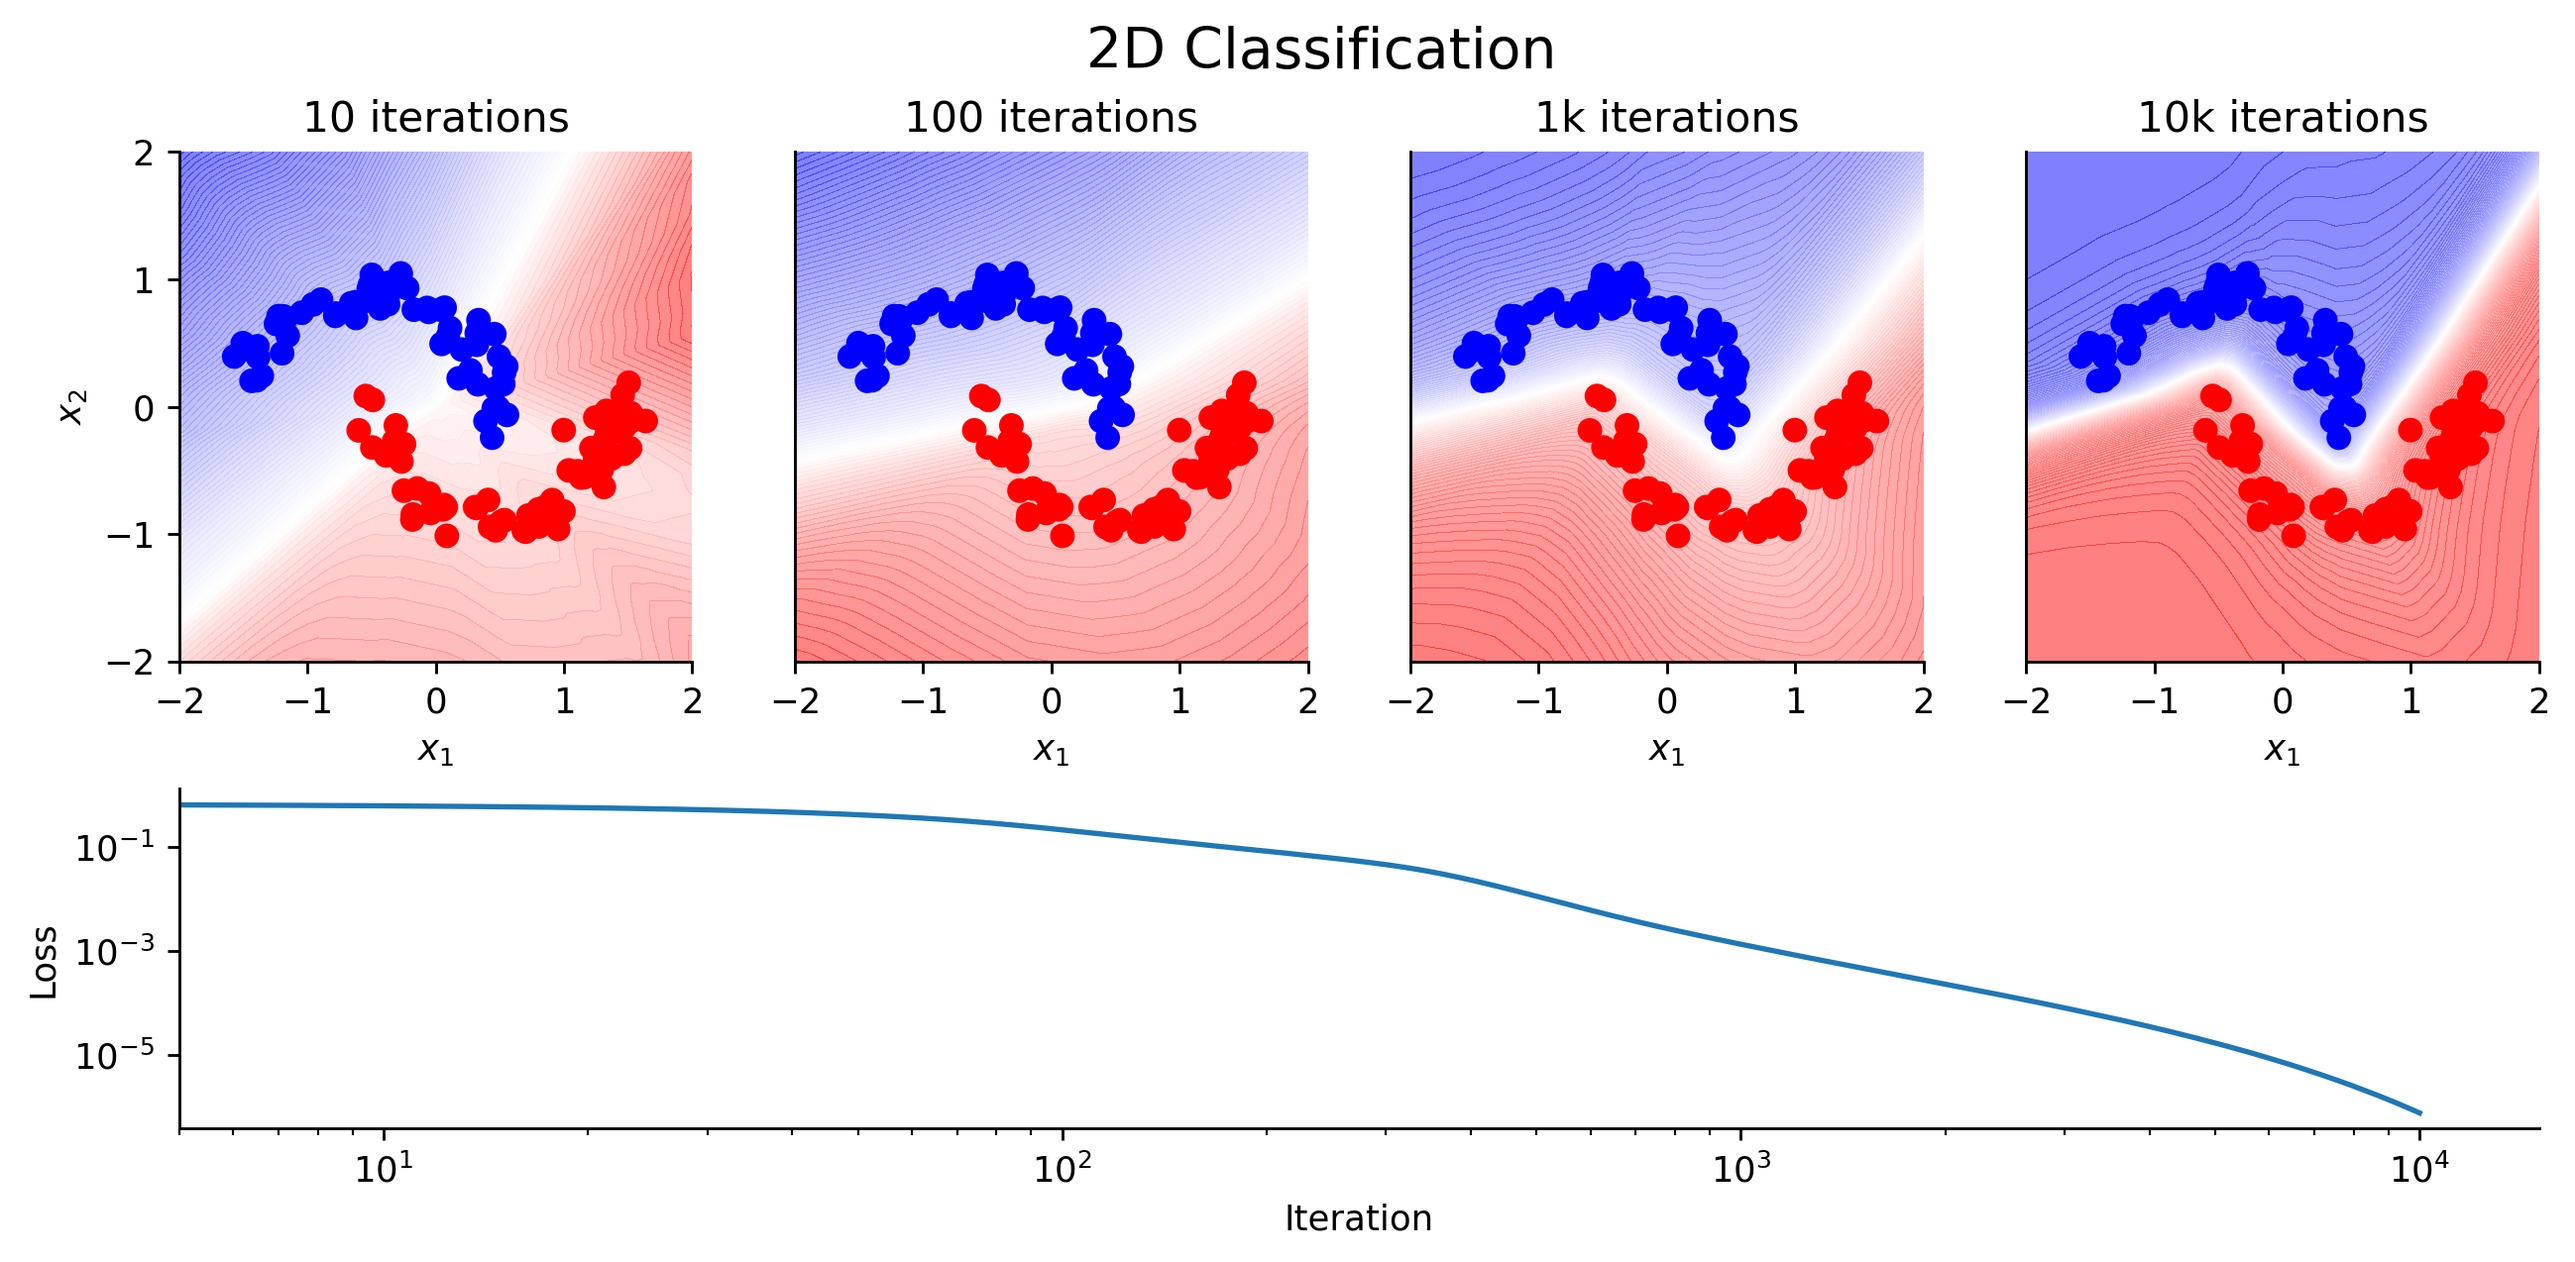
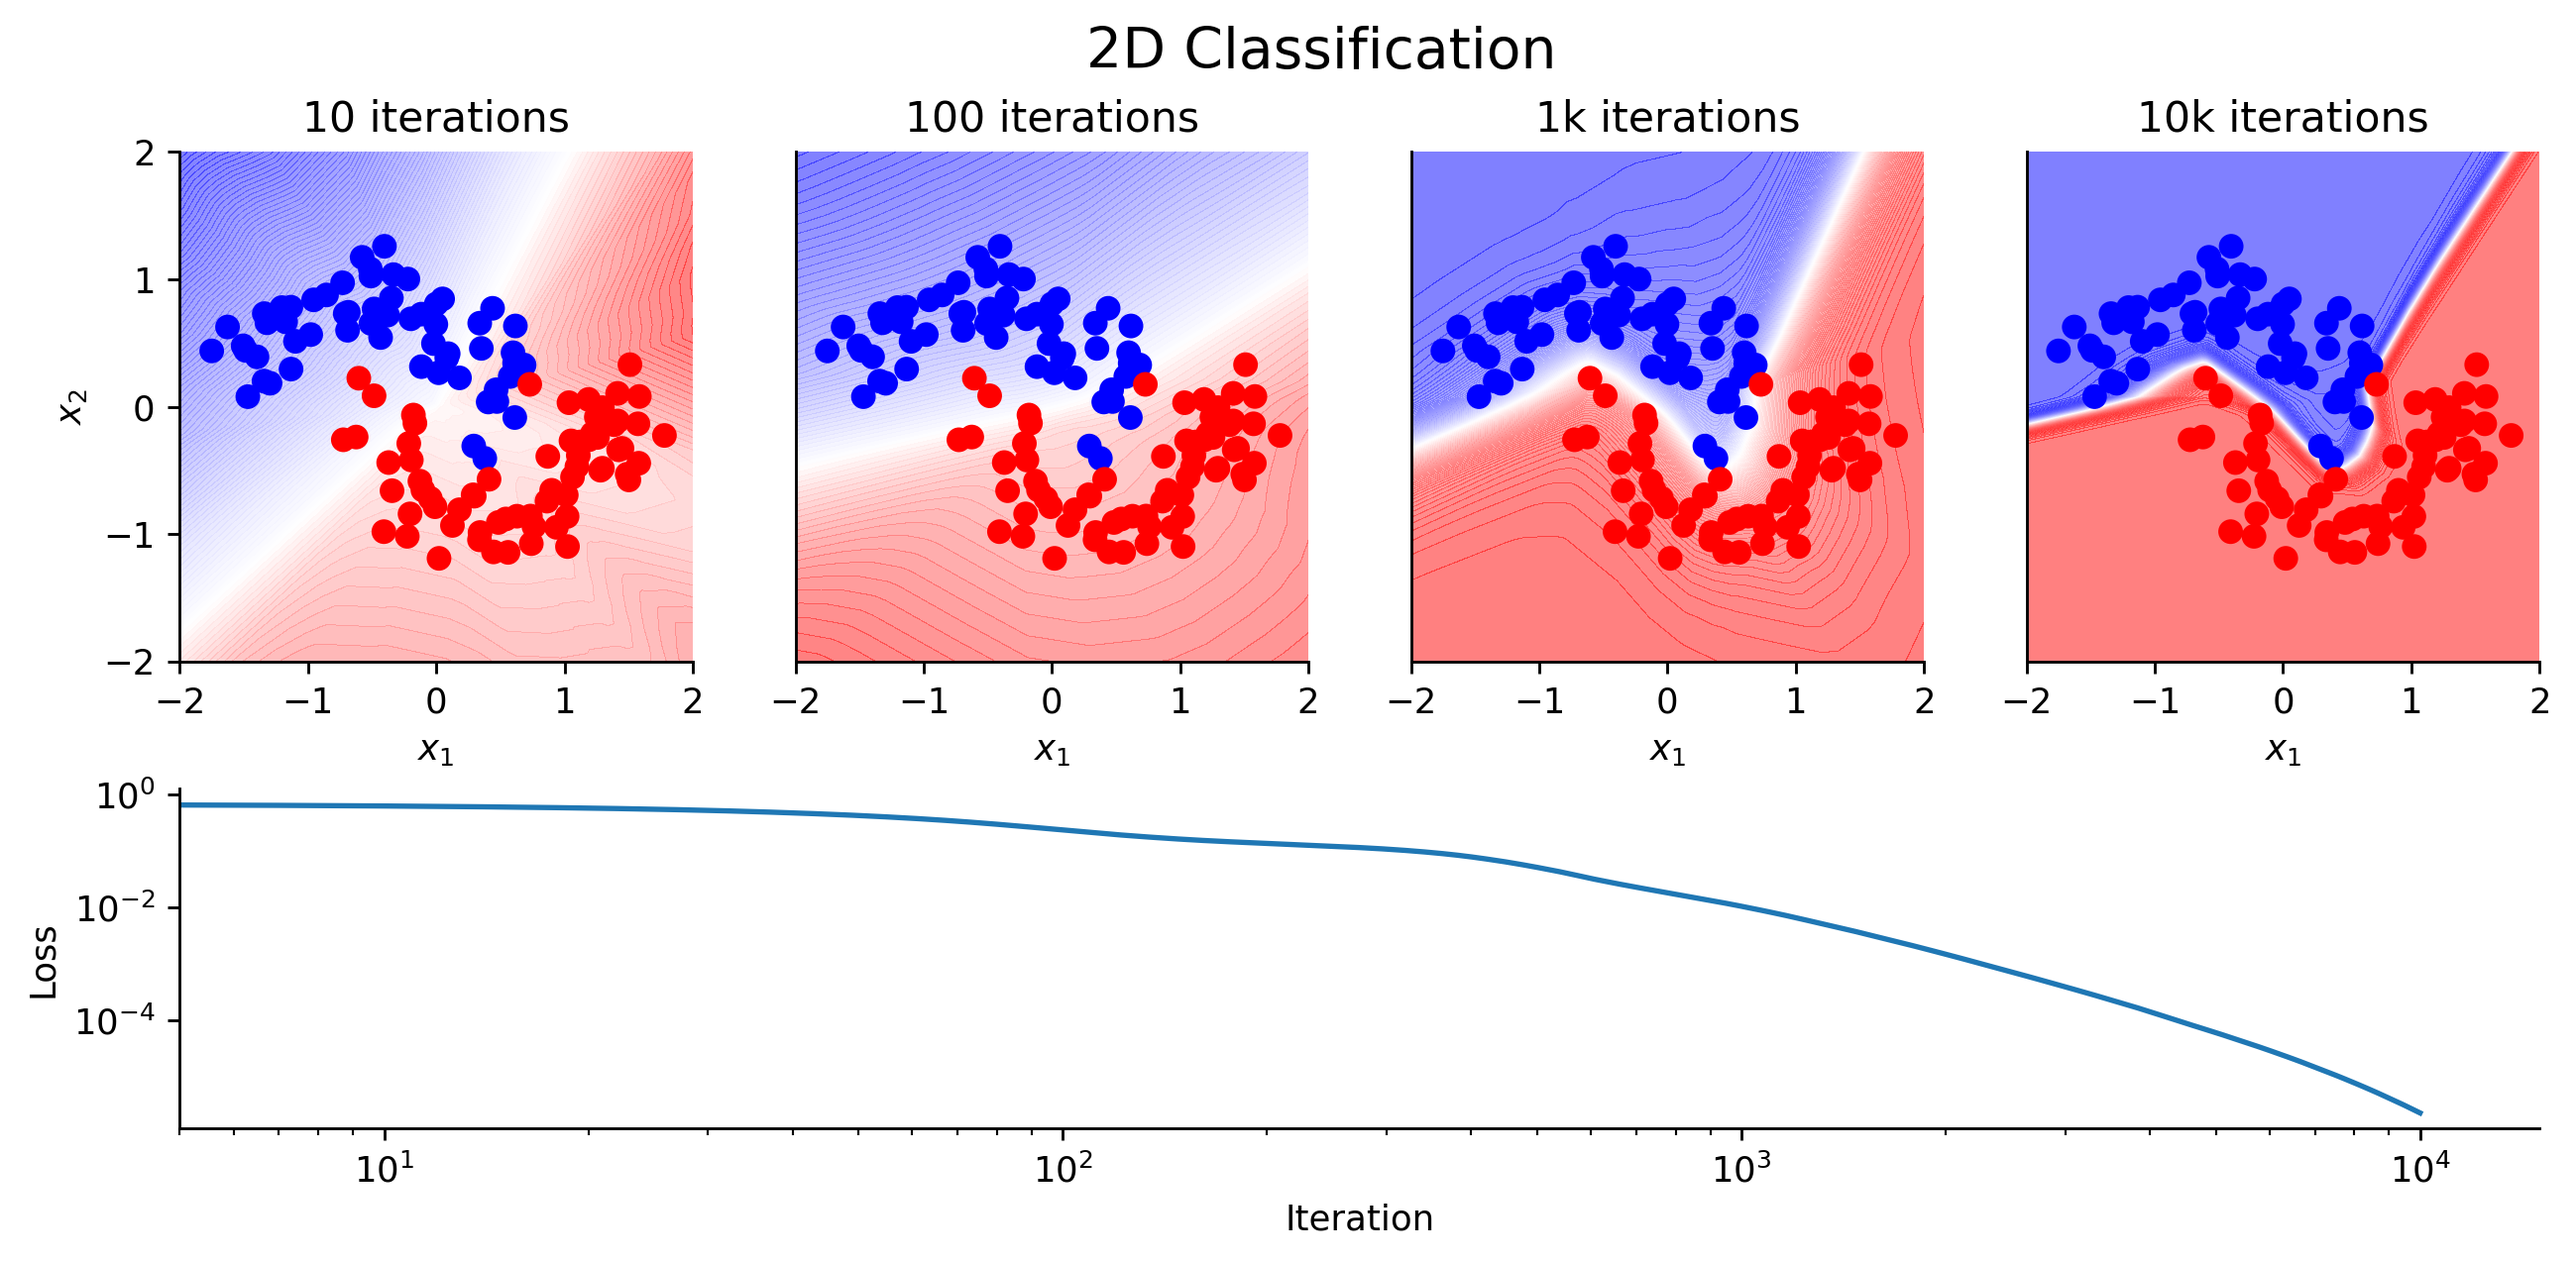
regression example

diff --git a/examples/regression_1d.py b/examples/regression_1d.py
@@ -1,0 +1,107 @@
+"""
+A simple 1D regression example. Fit a non linear MLP model using gradient
+based optimization.
+"""
+
+import jax.nn as jnn
+import jax.numpy as jnp
+import jax.random as jrn
+import matplotlib.pyplot as plt
+import seaborn as sns
+from jaxtyping import PRNGKeyArray
+from tqdm import trange
+from utils import get_plot_path
+
+import seli
+
+x_min, x_max = -5.0, 5.0
+
+
+# the true underlying function is a non linear function of x
+def true_fn(x: jnp.ndarray) -> jnp.ndarray:
+    return jnp.sin(1.5 * x) + 0.1 * x**2
+
+
+# the standard deviation of the observation noise is a function of x
+def stddev_fn(x: jnp.ndarray) -> jnp.ndarray:
+    return 0.2 + 0.05 * jnp.abs(x)
+
+
+# generate data from the true function with observation noise
+def generate_data(key: PRNGKeyArray, n: int) -> tuple[jnp.ndarray, jnp.ndarray]:
+    key_x, key_y = jrn.split(key)
+    x = jrn.uniform(key_x, (n,), minval=x_min, maxval=x_max)
+    y = true_fn(x)
+    eps = jrn.normal(key_y, (n,)) * stddev_fn(x)
+    return x, y + eps
+
+
+# generate a finite dataset of points
+x_data, y_data = generate_data(jrn.PRNGKey(0), 64)
+
+
+# define a non linear MLP model
+class MLP(seli.Module):
+    def __init__(self, dim: int = 16):
+        self.layers = [
+            seli.net.Affine(dim),
+            jnn.elu,
+            seli.net.Affine(dim),
+            jnn.elu,
+            seli.net.Affine(1),
+        ]
+
+    def __call__(self, x: jnp.ndarray) -> jnp.ndarray:
+        x = x[:, None]
+
+        for layer in self.layers:
+            x = layer(x)
+
+        return x[:, 0]
+
+
+model = MLP().set_rngs(42)
+opt = seli.opt.Adam(1e-2)
+
+# train with mean squared error loss, which fits the Gaussian noise model
+loss_fn = seli.opt.MeanSquaredError()
+
+for _ in trange(1000, desc="Training"):
+    opt, model, loss = opt.minimize(loss_fn, model, y_data, x_data)
+
+# make predictions on a fine grid of points
+x_lin = jnp.linspace(x_min, x_max, 128)
+x_lin_err = jnp.linspace(x_min, x_max, 128)
+
+y_pred = model(x_lin)
+
+fig, ax = plt.subplots(1, 1, figsize=(6, 6))
+
+# plot the data
+ax.scatter(x_data, y_data, label="data", s=10, color="tab:blue")
+ax.plot(x_lin, true_fn(x_lin), label="true", color="tab:blue", alpha=0.8)
+ax.fill_between(
+    x_lin_err,
+    true_fn(x_lin_err) + stddev_fn(x_lin_err) * 1.645,
+    true_fn(x_lin_err) - stddev_fn(x_lin_err) * 1.645,
+    alpha=0.1,
+    color="tab:blue",
+    label="90% CI",
+)
+
+# plot the model predictions
+ax.plot(x_lin, y_pred, label="model", color="tab:orange")
+
+ax.set_xlim(x_min, x_max)
+ax.legend(frameon=False)
+ax.set_xlabel("x")
+ax.set_ylabel("y")
+ax.set_title("1D regression")
+sns.despine()
+
+# save the final plot
+fig.savefig(
+    get_plot_path("regression_1d.png"),
+    dpi=256,
+    bbox_inches="tight",
+)

diff --git a/src/seli/opt/_loss.py b/src/seli/opt/_loss.py
@@ -42,8 +42,6 @@ class MeanSquaredError(Loss, name="opt.MeanSquaredError"):
         **model_kwargs,
     ) -> Float[Array, ""]:
         y_pred = model(*model_args, **model_kwargs)
-        y_pred = y_pred.squeeze()
-        print((y_pred - y_true).shape)
         return jnp.mean(jnp.square(y_pred - y_true))
 
 
@@ -60,8 +58,6 @@ class MeanAbsoluteError(Loss, name="opt.MeanAbsoluteError"):
         **model_kwargs,
     ) -> Float[Array, ""]:
         y_pred = model(*model_args, **model_kwargs)
-        y_pred = y_pred.squeeze()
-
         return jnp.mean(jnp.abs(y_pred - y_true))
 
 
@@ -78,8 +74,6 @@ class BinaryCrossEntropy(Loss, name="opt.BinaryCrossEntropy"):
         **model_kwargs,
     ) -> Float[Array, ""]:
         y_logits = model(*model_args, **model_kwargs)
-        y_logits = y_logits.squeeze()
-
         pos_term = y_true * jnn.log_sigmoid(y_logits)
         neg_term = (1 - y_true) * jnn.log_sigmoid(-y_logits)
         return -jnp.mean(pos_term + neg_term)

diff --git a/examples/classification_2d.py b/examples/classification_2d.py
@@ -2,6 +2,7 @@
 Example of classification on a 2D dataset using a simple 3 layer MLP.
 """
 
+# %%
 import jax.nn as jnn
 import jax.numpy as jnp
 import jax.random as jrn
@@ -41,7 +42,7 @@ class MLP(seli.Module):
         for layer in self.layers2:
             x = layer(x)
 
-        return x
+        return x[..., 0]
 
 
 # create the model and set the random number generator seed for reproducibility
@@ -96,8 +97,8 @@ fig, axs = plt.subplot_mosaic(
 for i, iteration in enumerate(titles):
     ax, pred = axs[iteration], predictions[iteration]
 
-    # normalize predictions to be between -1 and 1
-    pred = jnn.tanh(pred * 0.05)
+    # normalize predictions to make the contour plot more informative
+    pred = jnn.tanh(pred * 0.1)
 
     norm = mcolors.TwoSlopeNorm(
         vmin=pred.min(),

diff --git a/examples/utils.py b/examples/utils.py
@@ -29,5 +29,5 @@ def moons_dataset(key, n: int):
     x = x.at[:, 0].add(y - 0.5)
     x = x.at[:, 1].add((y - 0.5) * 0.2)
 
-    x = x + jrn.normal(key_noise, (n, 2)) * 0.1
+    x = x + jrn.normal(key_noise, (n, 2)) * 0.2
     return x, y

diff --git a/src/seli/README.md b/src/seli/README.md
@@ -66,6 +66,7 @@ The documentation will be available in `docs/_build/html`.
 - [x] Push to pypi
 - [x] set rngs from module
 - [x] Supervised examples
+- [ ] Combination layers
 - [ ] Unsupervised examples
 - [ ] Convnets
 - [ ] Dataloader
